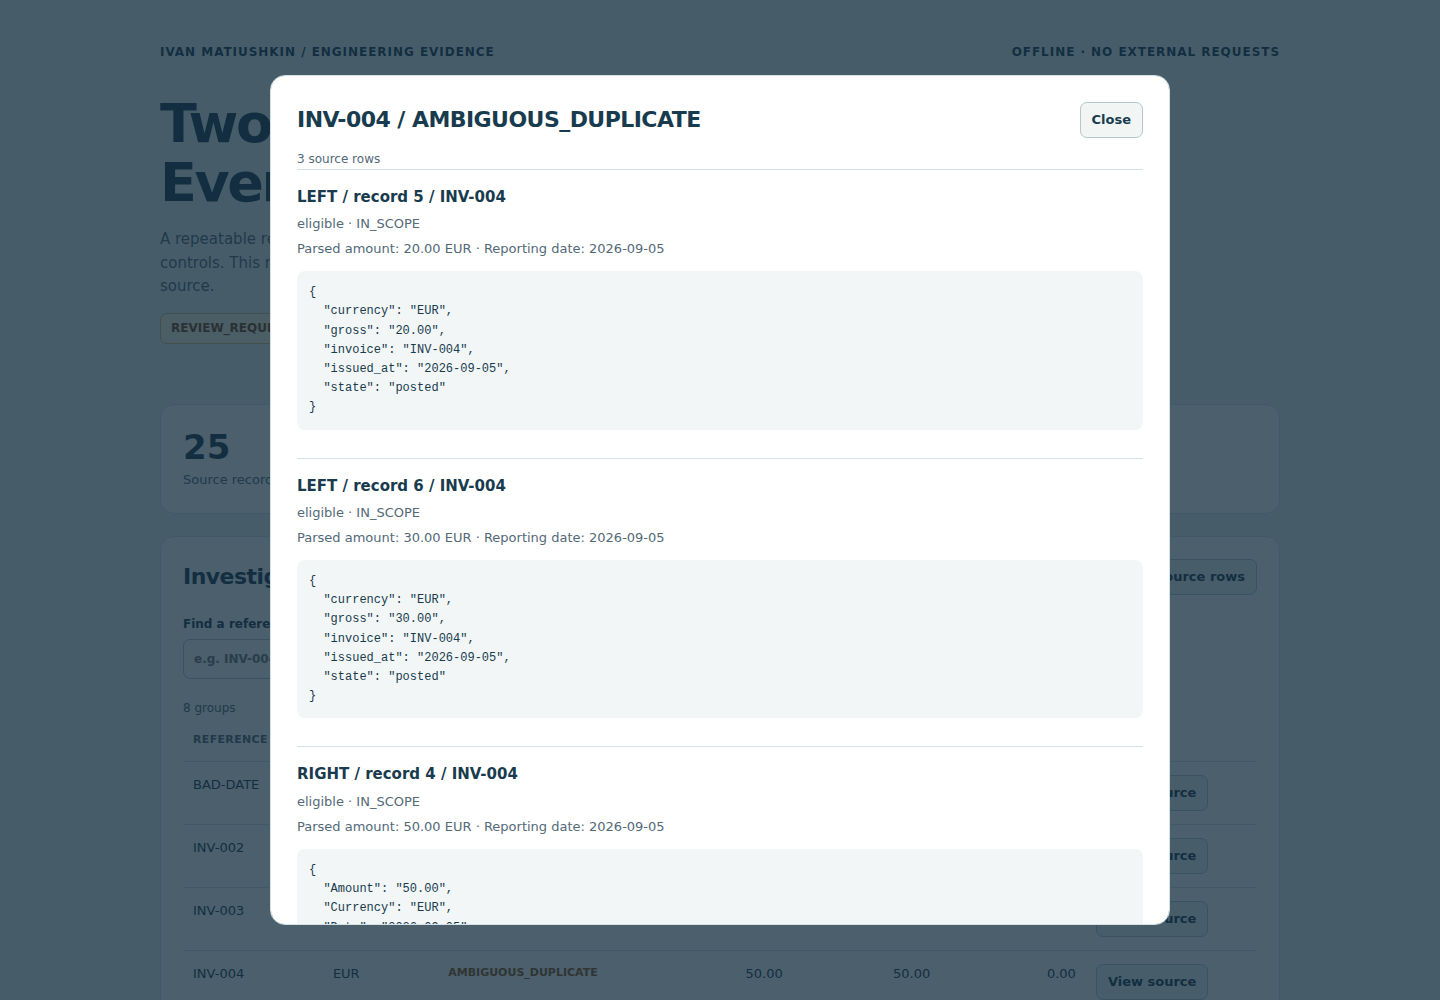
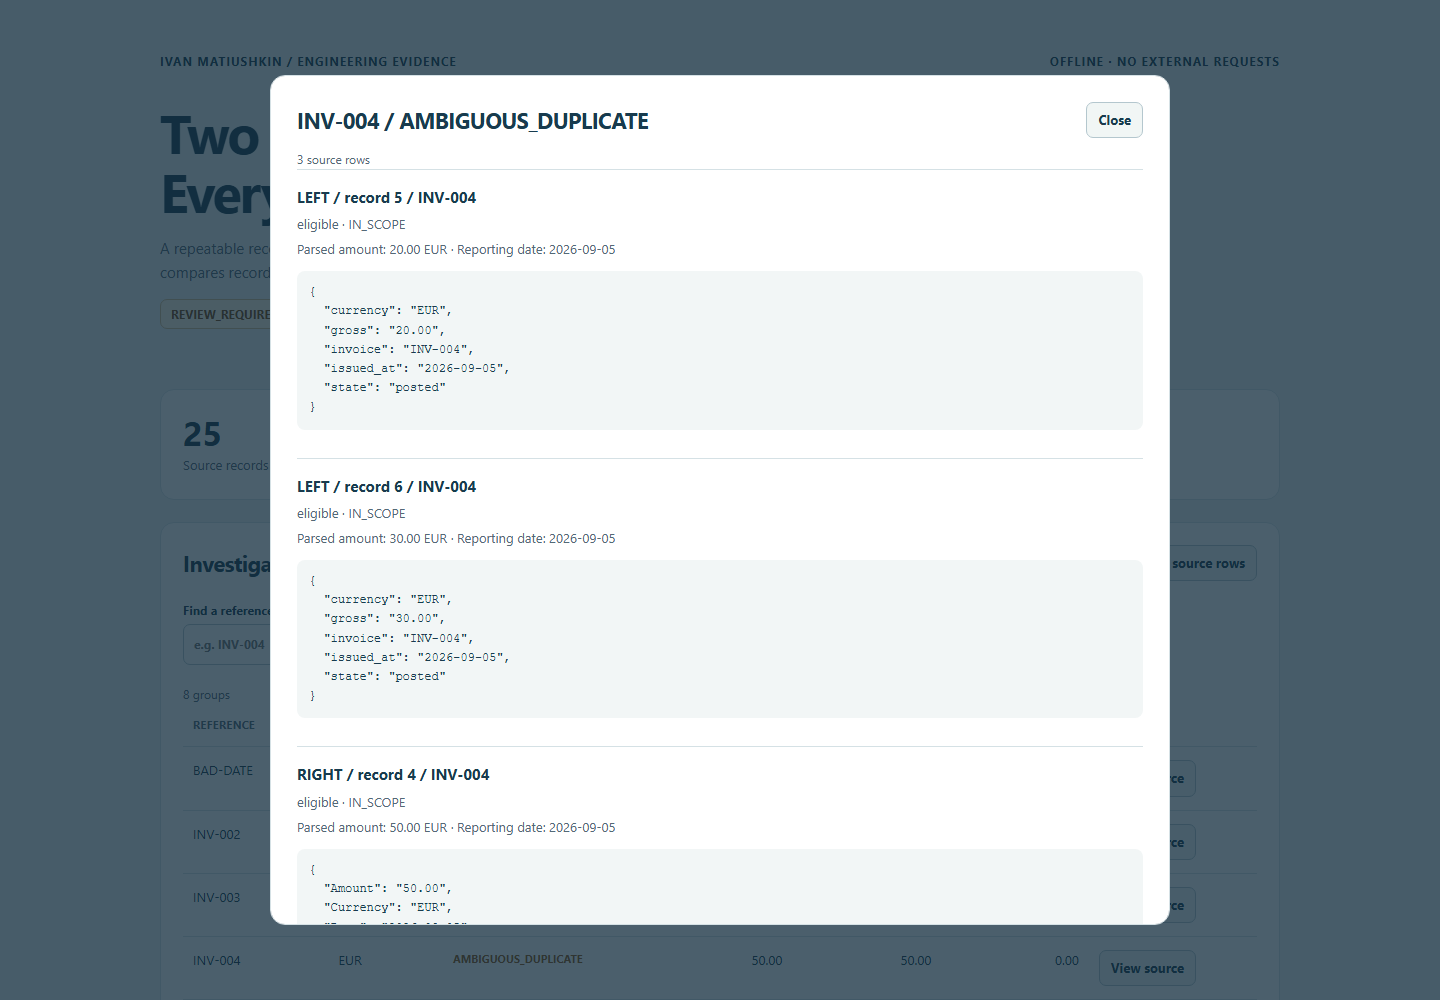
docs: finalize verified Chromium demo and release evidence [skip ci]

diff --git a/docs/VERIFICATION.md b/docs/VERIFICATION.md
@@ -4,6 +4,7 @@ Checked 2026-10-05. Implementation revision: `89e3c8703d8986cc61b4bf35181a1eda20
 
 - **Local Windows: 69 tests passed**, including 35 generated Hypothesis cases inside one property test. Ruff lint/format and wheel/source build passed.
 - **Hosted Windows/Python 3.14: PASS** on [run 37373593062](https://github.com/Hadezu/reconciliation-evidence-workbench/actions/runs/37373593062). This is the actual implementation revision, not an earlier proxy.
+- **Local Windows/Chromium: PASS**, `python -m pytest browser_checks -q --junitxml=test-results/local-browser.xml`: 1 end-to-end scenario passed in 12.30 seconds on the same implementation. It checks duplicate source evidence, amount search, outcome filters, all 25 source rows, Escape dismissal, a 390px viewport without page overflow, no JavaScript errors and no HTTP(S) requests. Screenshots were visually inspected; the actual interaction recording is included in the release.
 - **Hosted Linux/Chromium on that revision: queued at the last readback.** GitHub reported an [Actions runner-assignment incident](https://www.githubstatus.com/incidents/3q1yb5m7ltvb). Do not treat a queued workflow or successful Windows job as full matrix/browser success. Consult the run for subsequent provider state.
 - Earlier Linux execution passed the initial core suite/build and exercised source drilldown, search and screenshots; it found an accessible-label issue at the filter. The fix is committed. Earlier Windows execution found an implicit text-encoding assumption in a test; explicit UTF-8 fixed it.
 - A built wheel was installed into an isolated environment and generated the expected complete review report; its evidence manifest verified. The final implementation change after that smoke only prevents annotation of extra CSV cells from overwriting an identically named original column; it has a targeted regression test and is included in the 69-test suite.
@@ -13,7 +14,18 @@ Local environment: Windows, Python 3.14.4, uv 0.12.23. Exact dependency resoluti
 
 The suite covers a predetermined synthetic oracle, exact arithmetic, duplicates on either side, invalid duplicates, currency isolation, timezone boundaries, missing identities, unsupported currencies, explicit tolerances, blank/malformed inputs, XLSX formulas/numeric identifiers/date cells, archive expansion, XML entity rejection, literal-string workbook output, large-integer HTML data, long workbook cell preservation, repeatability, unchanged inputs, output refusal, export failure and manifest tampering. Hypothesis additionally checks matching under input permutation and exact sums across generated cases.
 
-Read-only browser checks of the local report confirmed exception counts, source drilldown and amount search. This caught malformed filter markup, which was corrected before publication. Automated Chromium acceptance tests and recordings are included in CI.
+Earlier read-only browser checks caught malformed filter markup, which was corrected before publication. The complete local automated Chromium scenario subsequently passed. CI also contains that scenario; its queued Linux execution is still a separate pending check.
+
+The published v0.1.0 release has a verified Windows reference environment, including Chromium. Pending hosted Linux verification is disclosed rather than represented as a passing cross-platform matrix. The release tag preserves the tested implementation; subsequent documentation/media commits on main record the final local evidence. No application code changed during this final verification pass.
+
+To repeat browser acceptance locally after `uv sync --locked`:
+
+```sh
+uv run playwright install chromium
+uv run pytest browser_checks -q --junitxml=test-results/browser.xml
+```
+
+On Linux, `uv run playwright install --with-deps chromium` also installs the browser's system dependencies. This test creates a temporary synthetic report and opens it in an isolated Chromium instance; it does not use a personal browser profile.
 
 The regression suite also covers actual separate-process death before publication and competing output writers. A killed run leaves unpublished staging data for inspection; caught errors clean their staging directory. Neither is called a completed report. Unit/readback checks inspect workbook values, cell types and raw-data preservation; no native Excel rendering claim is made.
 

diff --git a/docs/DEMO.md b/docs/DEMO.md
@@ -11,6 +11,16 @@ Use the included synthetic sample only. [Release assets](https://github.com/Hade
 
 ![Three source records behind an ambiguous match](images/duplicate-evidence.png)
 
-Screenshots are genuine Chromium captures from the synthetic example during CI run `37372126653`. That early run failed later at the outcome-filter accessible-name check; the label was subsequently fixed. These images illustrate the unchanged report layout and source evidence, not a claim that the early run passed. Current execution status is in [Verification](VERIFICATION.md).
+[Watch/download the actual Chromium recording](https://github.com/Hadezu/reconciliation-evidence-workbench/releases/download/v0.1.0/review-demo.webm). The short recording follows the automated review scenario; the numbered walkthrough above is a slower inspection guide.
+
+Screenshots and video were captured on 2026-10-05 by the **successful local Windows/Chromium acceptance test**, against implementation `89e3c8703d8986cc61b4bf35181a1eda2059c535`. They replace the preliminary captures from the earlier incomplete CI run. The recording contains real interactions with generated synthetic output, not a mockup. Full verification scope, including the pending hosted Linux check, is in [Verification](VERIFICATION.md).
+
+<details>
+<summary>Mobile report — 390px viewport</summary>
+
+![Mobile report](images/mobile.png)
+
+The comparison table scrolls horizontally inside its container; the page itself does not overflow.
+</details>
 
 The review workbook contains Summary, Reconciliation, Source rows and Rules. Monetary values are exact decimal text, deliberately not editable formulas. `manifest.json` allows `recon verify` to detect altered or missing evidence files; it is not a digital signature.
